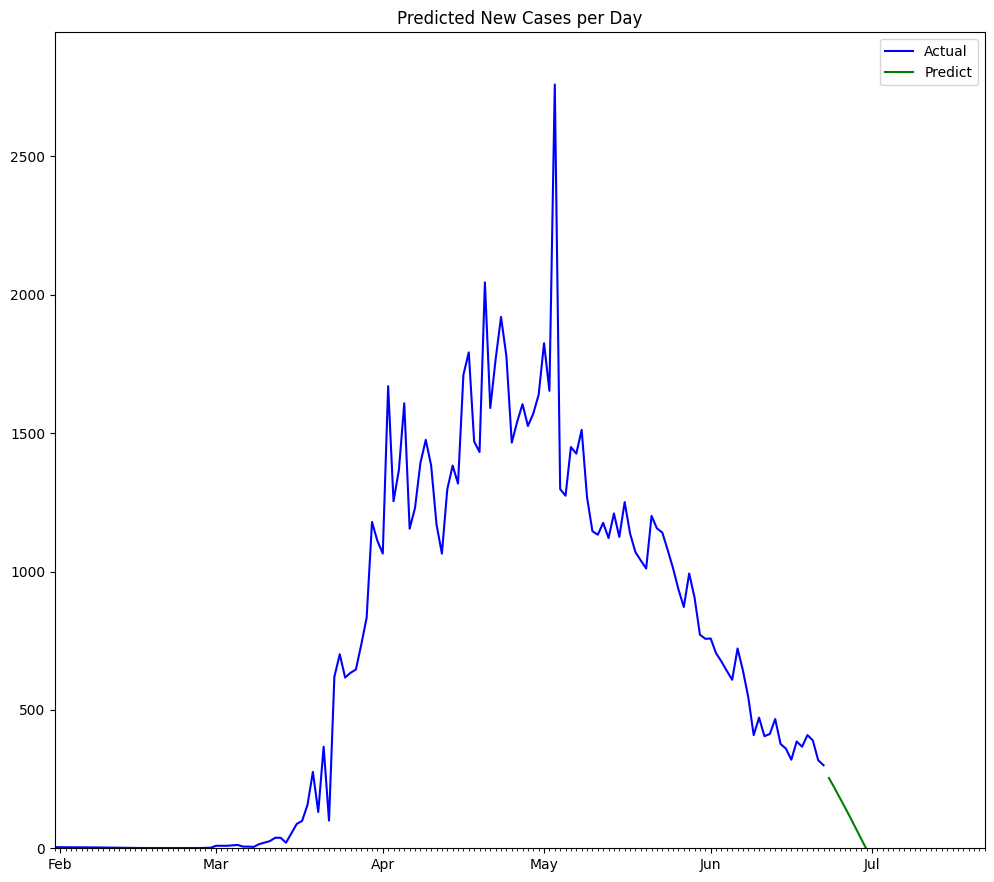
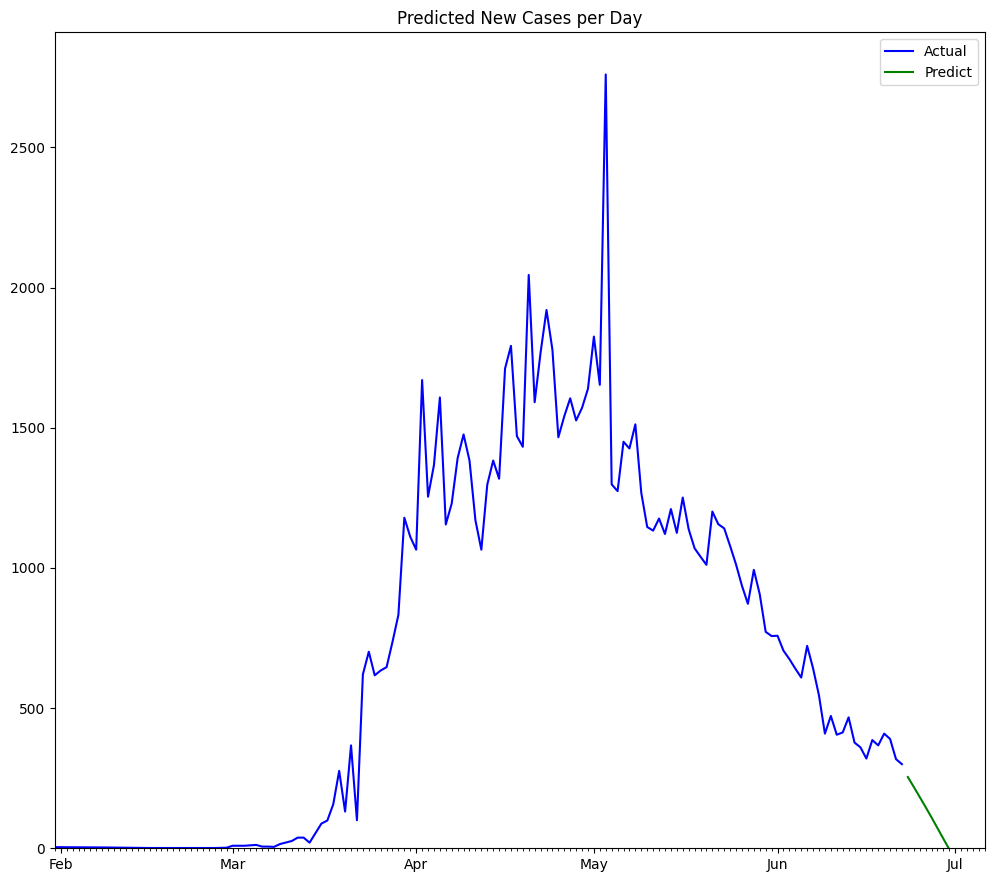
Fix date.

diff --git a/predict_future_cases.py b/predict_future_cases.py
@@ -45,7 +45,7 @@ def main():
 
     data, dates, provinces = get_csv()
 
-    plen = 30
+    plen = 14
 
     # Extend the date list.
     for i in range(plen):
